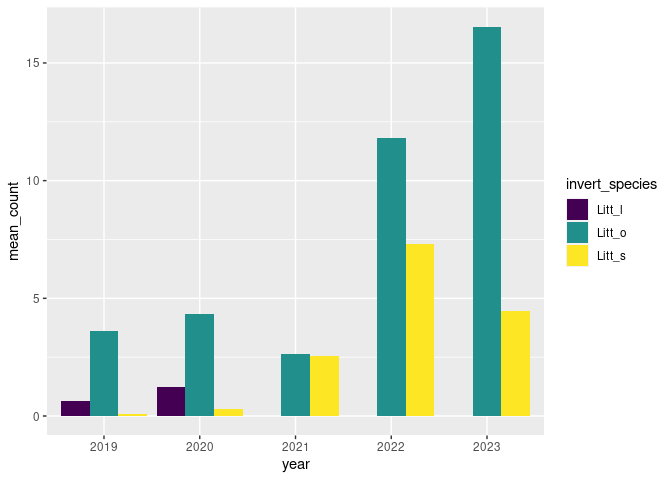
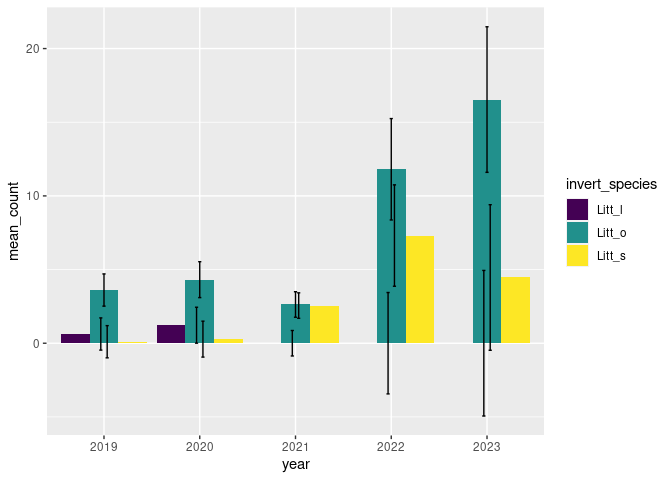
Attempt error bars for snail graph

diff --git a/extra/tidymdrdata.md b/extra/tidymdrdata.md
@@ -872,8 +872,11 @@ all_inverts_mdr %>%
   mutate(count = replace_na(count, 0)) %>%
   group_by(year, invert_species) %>%
   summarise(mean_count = mean(count)) %>%
+  mutate(se = sd(mean_count, na.rm=TRUE)/sqrt(length(mean_count))) %>%
   ggplot(mapping = aes(year, mean_count, fill = invert_species)) +
     geom_col(position = "dodge") +
+  geom_errorbar(aes(ymin = mean_count - se, ymax = mean_count + se),
+                width=.1, position = "dodge") +
   scale_fill_viridis_d()
 ```
 
@@ -884,6 +887,7 @@ all_inverts_mdr %>%
 
 ``` r
 # MEAN count per quadrat, faceted by tide height
+# error bars are NOT working (need to get them to line up with their bars)
 
 all_inverts_mdr %>%
   filter(invert_species %in% c("Litt_l",
